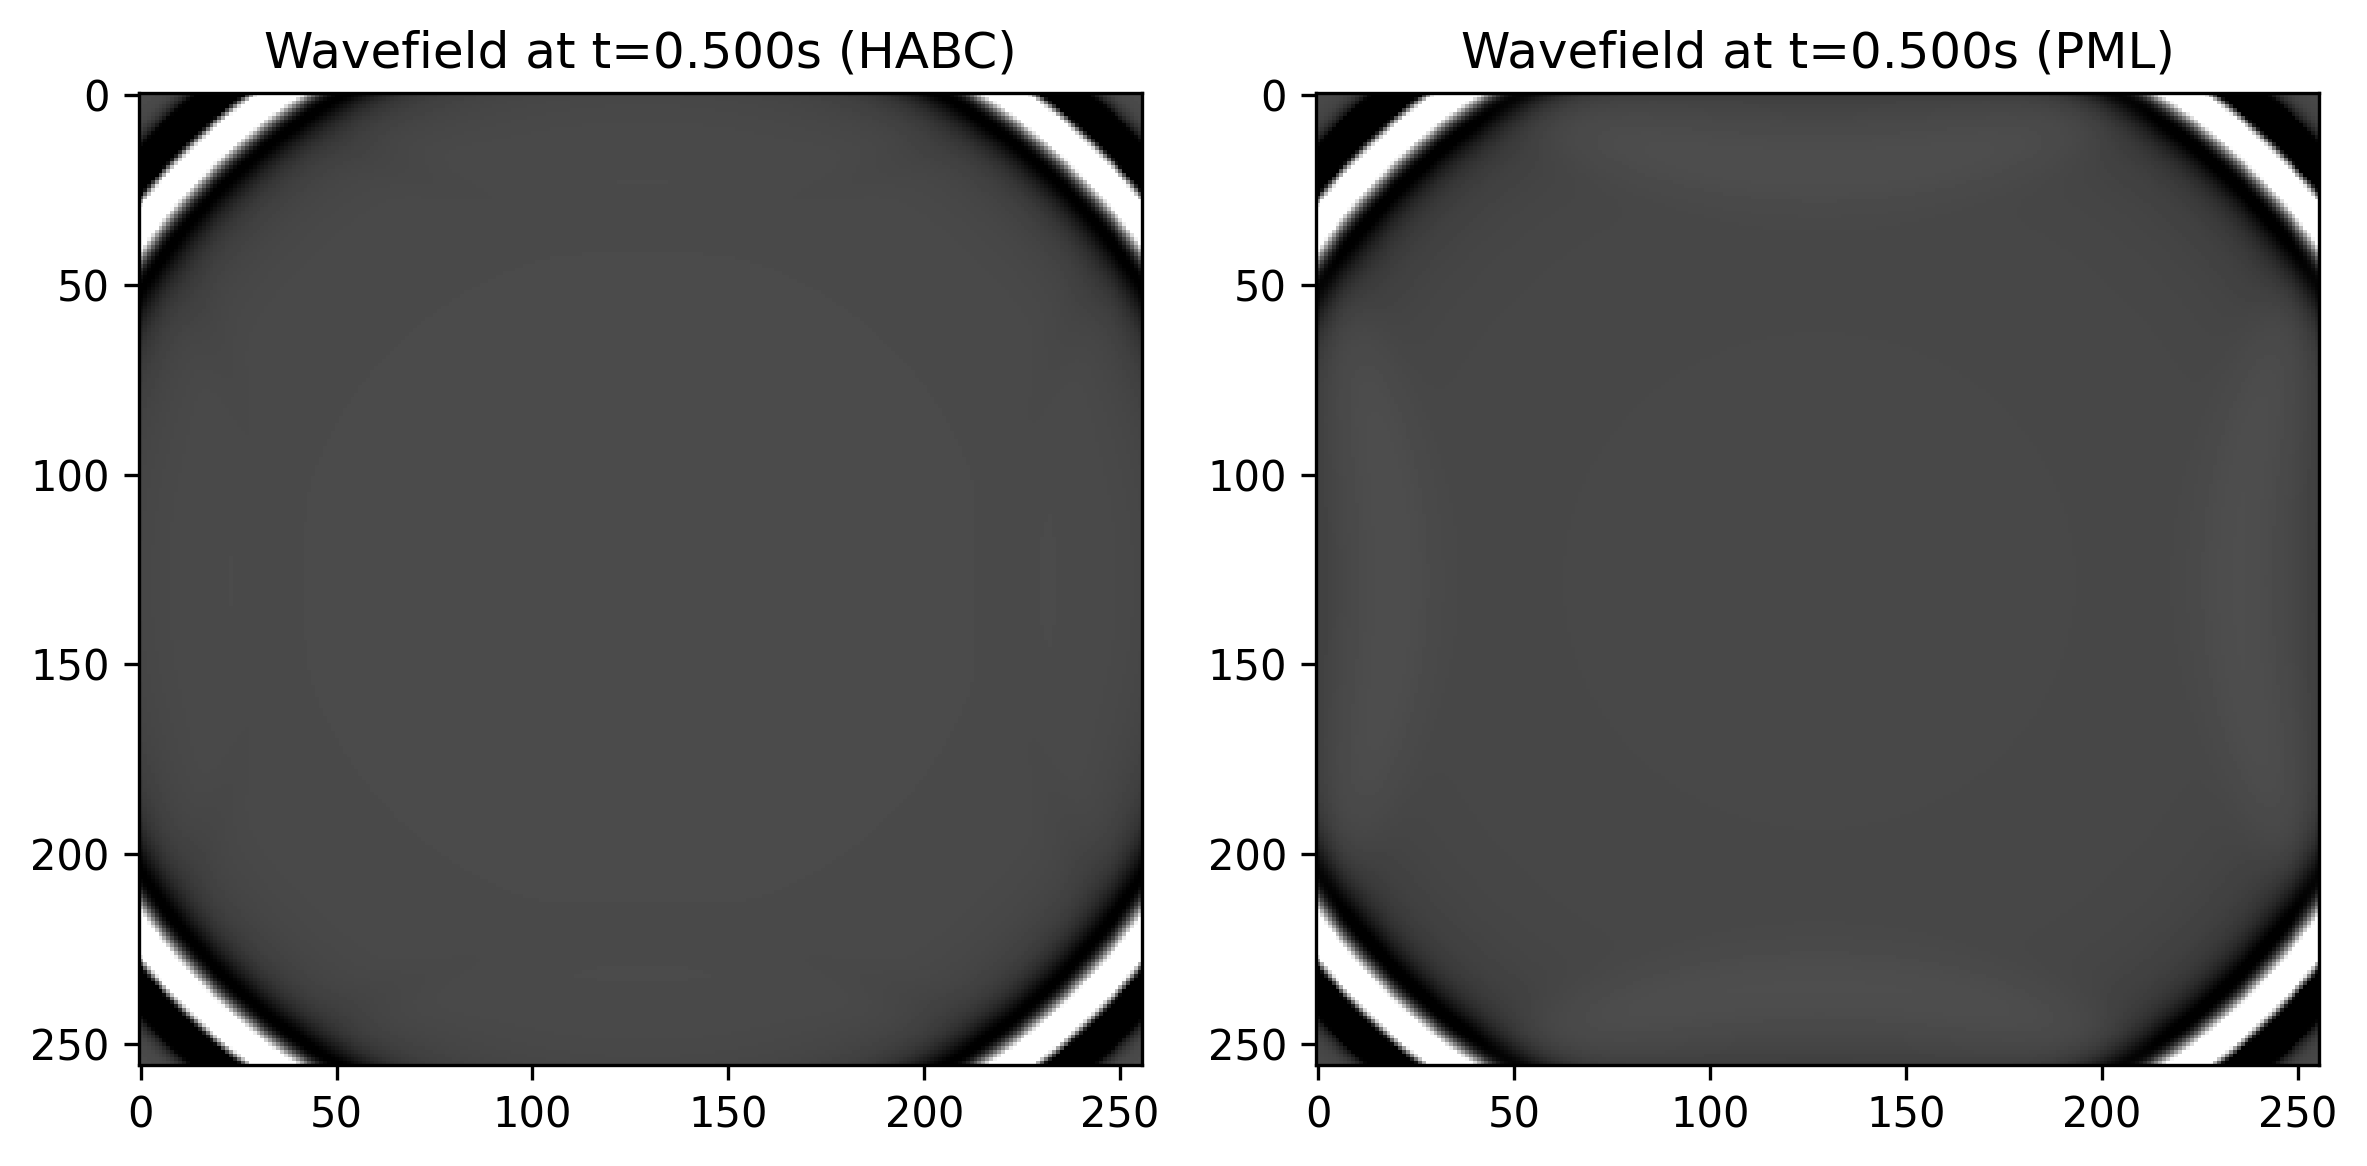
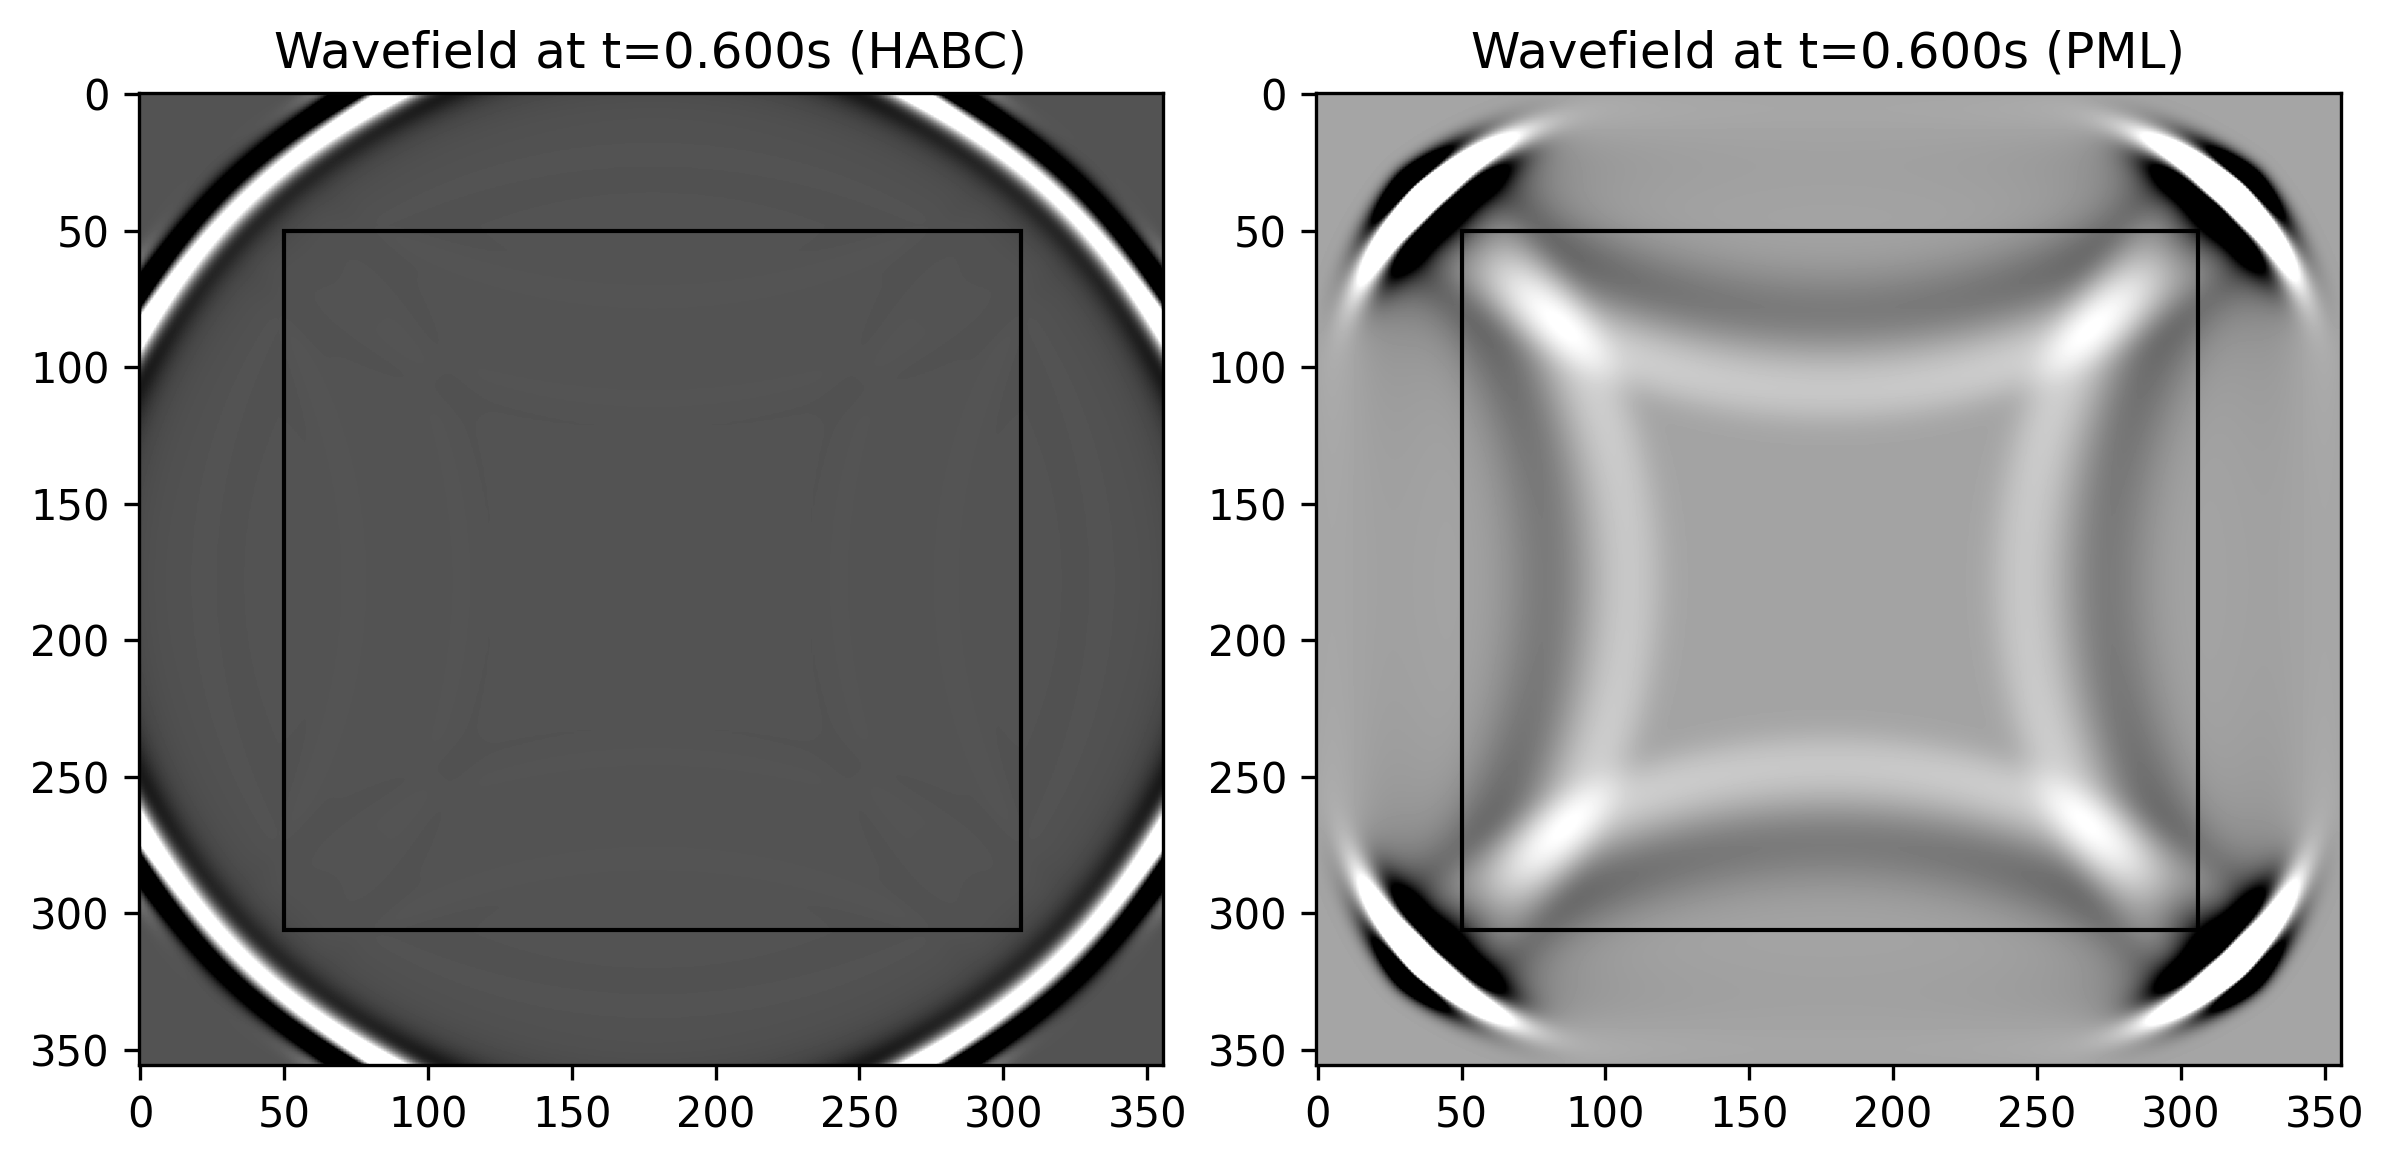
Added HABC support for elastic wave equations.

diff --git a/examples/habc_vs_pml/elastic.py b/examples/habc_vs_pml/elastic.py
@@ -1,0 +1,83 @@
+import os
+os.environ["XLA_PYTHON_CLIENT_PREALLOCATE"] = "false"
+
+import sys, time
+
+import numpy as np
+import jax.numpy as jnp
+import jax.random as random
+sys.path.append('../../src')
+from geophyai.rnn import RNNJax
+from geophyai.equations import Elastic
+from geophyai.signal import ricker
+from functools import partial
+import matplotlib.pyplot as plt
+
+### Configures
+nz, nx = 256, 256
+dt = 0.001
+nt = 601
+dh = 5.0
+fm = 20
+delay = 0.1
+spatial_order = 8
+abcn = 50
+show_time = 600
+# Generate models
+vp = np.ones((nz, nx), np.float32) * 2000.0
+vs = vp / 1.732
+rho = np.ones((nz, nx), np.float32) * 1000.0
+
+save_path = 'elastic'
+if not os.path.exists(save_path):
+    os.makedirs(save_path)
+
+np.random.seed(0)
+key = random.PRNGKey(0)
+
+t = np.arange(0, nt*dt, dt)
+shape = (nz, nx)
+
+wave = jnp.array(ricker(t-delay, f=fm))
+
+
+# Forward solver_all for observed data
+solver_kwargs = dict(shape=shape, dev=None, dh=dh, dt=dt, source_type=['txx', 'tzz'], receiver_type=['vz'], abcn=abcn, free_surface=False)
+eq_kwargs = dict(spatial_order=spatial_order, backend='jax', )
+solver_pml = RNNJax(Elastic(**eq_kwargs), **solver_kwargs)
+solver_habc = RNNJax(Elastic(**eq_kwargs), use_habc=True, **solver_kwargs)
+# Set the true solver_all
+
+# Geometry
+sources = np.array([nz//2, nx//2]).reshape(1, 2)
+receivers = np.array([nz//2, nx//2]).reshape(1, 1, 2)
+
+print("(Number of shots, dimension)", sources.shape)
+print("(Number of shots, number of receivers, dimension)", receivers.shape)
+
+
+fig, axes = plt.subplots(2,2, figsize=(8, 8))
+DATA = []
+for i, (solver, titles) in enumerate(zip([solver_habc, solver_pml], ['HABC'])): #, 'PML'
+    start = time.time()
+    _, wavefields = solver.forward(wave, sources, receivers, models=[vp, vs, rho], return_wavefield=True)
+    wavefields.block_until_ready()
+    end = time.time()
+    print(f"Time taken for {titles} solver: {end - start:.2f} seconds")
+    # Plot the data
+    vx = wavefields[show_time,0].squeeze()#[abcn:-abcn, abcn:-abcn]
+    vz = wavefields[show_time,1].squeeze()#[abcn:-abcn, abcn:-abcn]
+    
+    vmin, vmax = np.percentile(vx, [0, 100])
+    axes[i, 0].imshow(vx, cmap='seismic', vmin=vmin, vmax=vmax)
+    vmin, vmax = np.percentile(vz, [0, 100])
+    axes[i, 1].imshow(vz, cmap='seismic', vmin=vmin, vmax=vmax)
+    axes[i, 0].set_title(f'vx ({titles})')
+    axes[i, 1].set_title(f'vz ({titles})')
+    # Draw the boundary of the ABC on image
+    axes[i, 0].add_patch(plt.Rectangle((abcn, abcn), nx, nz, linewidth=1, edgecolor='black', facecolor='none'))
+    axes[i, 1].add_patch(plt.Rectangle((abcn, abcn), nx, nz, linewidth=1, edgecolor='black', facecolor='none'))
+
+plt.tight_layout()
+plt.savefig(f'{save_path}/wavefields.png', dpi=300, bbox_inches='tight')
+plt.close()

diff --git a/src/geophyai/equations/elastic.py b/src/geophyai/equations/elastic.py
@@ -1,12 +1,15 @@
-import torch, jax
-from functools import partial
+import torch
+import jax.numpy as jnp
+import numpy as np
 from .operator import PartialDerivative
 from .operator_jax import PartialDerivative as PartialDerivativeJax
-from typing import Tuple, Optional, Union, List, Any
+from .habc_jax import habc1st, bound_mask
+
 
 def step(vx, vz, txx, tzz, txz,
          vp, vs, rho, 
-         dt, h, b, pd):
+         dt, h, b, pd, 
+         habc_masks=None):
 
     lame_lambda = rho*(vp**2-2*vs**2)
     lame_mu = rho*vs**2
@@ -31,6 +34,39 @@ def step(vx, vz, txx, tzz, txz,
 
     return y_vx, y_vz, y_txx, y_tzz, y_txz
 
+def step_habc(vx, vz, txx, tzz, txz,
+              vp, vs, rho, 
+              dt, h, b, pd, habc_masks):
+
+    lame_lambda = rho*(vp**2-2*vs**2)
+    lame_mu = rho*vs**2
+
+    vx_x = pd.x_forward(vx)
+    vz_z = pd.z_backward(vz)
+    vx_z = pd.z_forward(vx)
+    vz_x = pd.x_backward(vz)
+
+    y_txx  = dt*h**(-1)*((lame_lambda+2*lame_mu)*vx_x+lame_lambda*vz_z)+txx
+    y_tzz  = dt*h**(-1)*((lame_lambda+2*lame_mu)*vz_z+lame_lambda*vx_x)+tzz
+    y_txz = dt*lame_mu*h**(-1)*(vz_x+vx_z)+txz
+
+    y_txx = habc1st(y_txx, txx, vp, vs, b, dt, h, maskidx=habc_masks)
+    y_tzz = habc1st(y_tzz, tzz, vp, vs, b, dt, h, maskidx=habc_masks)
+    y_txz = habc1st(y_txz, txz, vp, vs, b, dt, h, maskidx=habc_masks)
+
+    txx_x = pd.x_backward(y_txx)
+    txz_z = pd.z_backward(y_txz)
+    tzz_z = pd.z_forward(y_tzz)
+    txz_x = pd.x_forward(y_txz)
+
+    y_vx = dt*rho**(-1)*h**(-1)*(txx_x+txz_z)+vx
+    y_vz = dt*rho**(-1)*h**(-1)*(txz_x+tzz_z)+vz
+
+    y_vx = habc1st(y_vx, vx, vp, vs, b, dt, h, maskidx=habc_masks)
+    y_vz = habc1st(y_vz, vz, vp, vs, b, dt, h, maskidx=habc_masks)
+
+    return y_vx, y_vz, y_txx, y_tzz, y_txz
+
 class Elastic:
     """Parameter order: vp, vs, rho.
     
@@ -43,6 +79,12 @@ class Elastic:
             self.pd = torch.jit.script(PartialDerivative(spatial_order, device))
         else:
             self.pd = PartialDerivativeJax(spatial_order)
+        self.use_habc = False
+
+    def init_habc(self, shape, abcn, free_surface=False, batchsize=1, use_habc=False):
+        habc_masks = bound_mask(*shape, abcn, batchsize, return_idx=True, free_surface=free_surface)
+        self.habc_masks = tuple([np.array(mask) if mask is not None else mask for mask in habc_masks])
+        self.use_habc = use_habc
 
     @property
     def models(self):
@@ -56,4 +98,5 @@ class Elastic:
         return step(*args, pd=self.pd, **kwargs)
     
     def func_jax(self, *args, **kwargs):
-        return step(*args, self.pd, **kwargs)
+        _step = step_habc if self.use_habc else step
+        return _step(*args, self.pd, habc_masks=self.habc_masks, **kwargs)

diff --git a/src/geophyai/equations/habc_jax.py b/src/geophyai/equations/habc_jax.py
@@ -121,3 +121,73 @@ def _habc(u_next, u_now, u_pre, c, b, dt, dh, w=50):
     hb_next = (u_one*b + (1-b) * u_next)
 
     return hb_next[:, :, :, :cut, :]
+
+def habc1st(y, h1, vp, vs, coes, dt, h, w=50, maskidx=None):
+
+    if vp.ndim == 2:
+        vp = vp[jnp.newaxis, jnp.newaxis, ...]  # Add batch and channel dimensions
+    if vs.ndim == 2:
+        vs = vs[jnp.newaxis, jnp.newaxis, ...]  # Add batch and channel dimensions
+
+    otherargs = [dt, h]
+    # # Calculate weighted one/two-wave-wavefield
+    tbargs = [stack(cutb(array, w), cutb(flipud(array), w)) for array in [y, h1, vp, vs, coes[jnp.newaxis, jnp.newaxis, ...]]]+otherargs
+
+    lrargs = [stack(cutb(rot90(array, -1), w), cutb(rot90(array, 1), w)) for array in [y, h1, vp, vs, coes[jnp.newaxis, jnp.newaxis, ...]]]+otherargs
+    
+    top, bottom = jnp.split(_habc1st(*tbargs, w=w), [1], axis=0)
+    left, right = jnp.split(_habc1st(*lrargs, w=w), [1], axis=0)
+    tmidx, bmidx, lmidx, rmidx = maskidx
+    free_surface = tmidx is None
+
+    # """Rotate"""
+    y_top = top.squeeze(0) # (batchsize, 1, nz, nx)
+    y_bottom = jnp.flip(bottom.squeeze(0), axis=[2])
+    y_left = rot90(left.squeeze(0))
+    y_right = rot90(right.squeeze(0), -1)#.squeeze()
+
+    # Top
+    if not free_surface:
+        updated_slice = jnp.where(tmidx[:, None, ...], y_top, y[:, :, :w, :])
+        y = y.at[:, :, :w, :].set(updated_slice)
+
+    # Bottom
+    updated_slice = jnp.where(bmidx[:, None, ...], y_bottom, y[:, :, -w:, :])
+    y = y.at[:, :, -w:, :].set(updated_slice)
+
+    # Left
+    updated_slice = jnp.where(lmidx[:, None, ...], y_left, y[..., :w])
+    y = y.at[..., :w].set(updated_slice)
+
+    # Right boundary
+    updated_slice = jnp.where(rmidx[:, None, ...], y_right, y[..., -w:])
+    y = y.at[..., -w:].set(updated_slice)
+
+    dix, diz = np.diag_indices(w)
+
+    if not free_surface:
+        # Top-Left corner
+        y = y.at[..., dix, diz].set(0.5*y_top[..., dix, diz] + 0.5*y_left[..., dix, diz])
+
+    #     # Top-Right corner
+    #     y = y.at[..., dix, -w+diz].set(0.5*y_top[..., dix, -w+diz] + 0.5*y_right[..., dix, -w+diz])
+
+    # # Bottom-Left corner
+    # y = y.at[..., -w+dix, diz].set(0.5*y_bottom[..., dix, diz] + 0.5*y_left[..., -w+dix, diz])
+
+    # # Bottom-Right corner
+    # y = y.at[..., -w+dix, -w+diz].set(0.5*y_bottom[..., dix, -w+diz] + 0.5*y_right[..., -w+dix, -w+diz])
+
+    return y
+
+def _habc1st(u_next, u_now, vp, vs, b, dt, dh, w=50):
+    cut = w
+    beta = (vp+vs)/2*vs
+
+    # Top
+    _u_now = jnp.roll(u_now, shift=-1, axis=3)
+    u_one = _u_now + dt*vp/(beta*dh) * (_u_now - u_now)
+
+    hb_next = (u_one*b + (1-b) * u_next)
+
+    return hb_next[:, :, :, :cut, :]

diff --git a/examples/habc_vs_pml/acoustic.py b/examples/habc_vs_pml/acoustic.py
@@ -16,7 +16,7 @@ import matplotlib.pyplot as plt
 ### Configures
 nz, nx = 256, 256
 dt = 0.001
-nt = 501
+nt = 601
 dh = 5.0
 fm = 20
 delay = 0.1
@@ -66,10 +66,11 @@ for i, (solver, titles) in enumerate(zip([solver_habc, solver_pml], ['HABC', 'PM
     end = time.time()
     print(f"Time taken for {titles} solver: {end - start:.2f} seconds")
     # Plot the data
-    show_d = wavefields[500,0].squeeze()[abcn:-abcn, abcn:-abcn]
+    show_d = wavefields[600,0].squeeze()#[abcn:-abcn, abcn:-abcn]
     vmin, vmax = np.percentile(show_d, [2, 98])
     axes[i].imshow(show_d, cmap='gray', vmin=vmin, vmax=vmax, aspect='auto')
-    axes[i].set_title(f'Wavefield at t={500*dt:.3f}s ({titles})')
+    axes[i].set_title(f'Wavefield at t={600*dt:.3f}s ({titles})')
+    axes[i].add_patch(plt.Rectangle((abcn, abcn), nx, nz, linewidth=1, edgecolor='black', facecolor='none'))
 plt.tight_layout()
 plt.savefig(f'{save_path}/wavefields.png', dpi=300, bbox_inches='tight')
 plt.close()

diff --git a/src/geophyai/equations/acoustic1st.py b/src/geophyai/equations/acoustic1st.py
@@ -21,7 +21,13 @@ def step(p, vx, vz, vp, rho, dt, h, b, pd):
     return y_p, y_vx, y_vz
 
 class Acoustic:
+    """
+    Parameter order: vp, rho
 
+    Wavefields: (p, vx, vz).
+
+    References: 10.1190/GEO2011-0345.1
+    """
     def __init__(self, spatial_order=4, device='cpu', backend='torch'):
         if backend == 'torch':
             self.pd = torch.jit.script(PartialDerivative(spatial_order, device))
